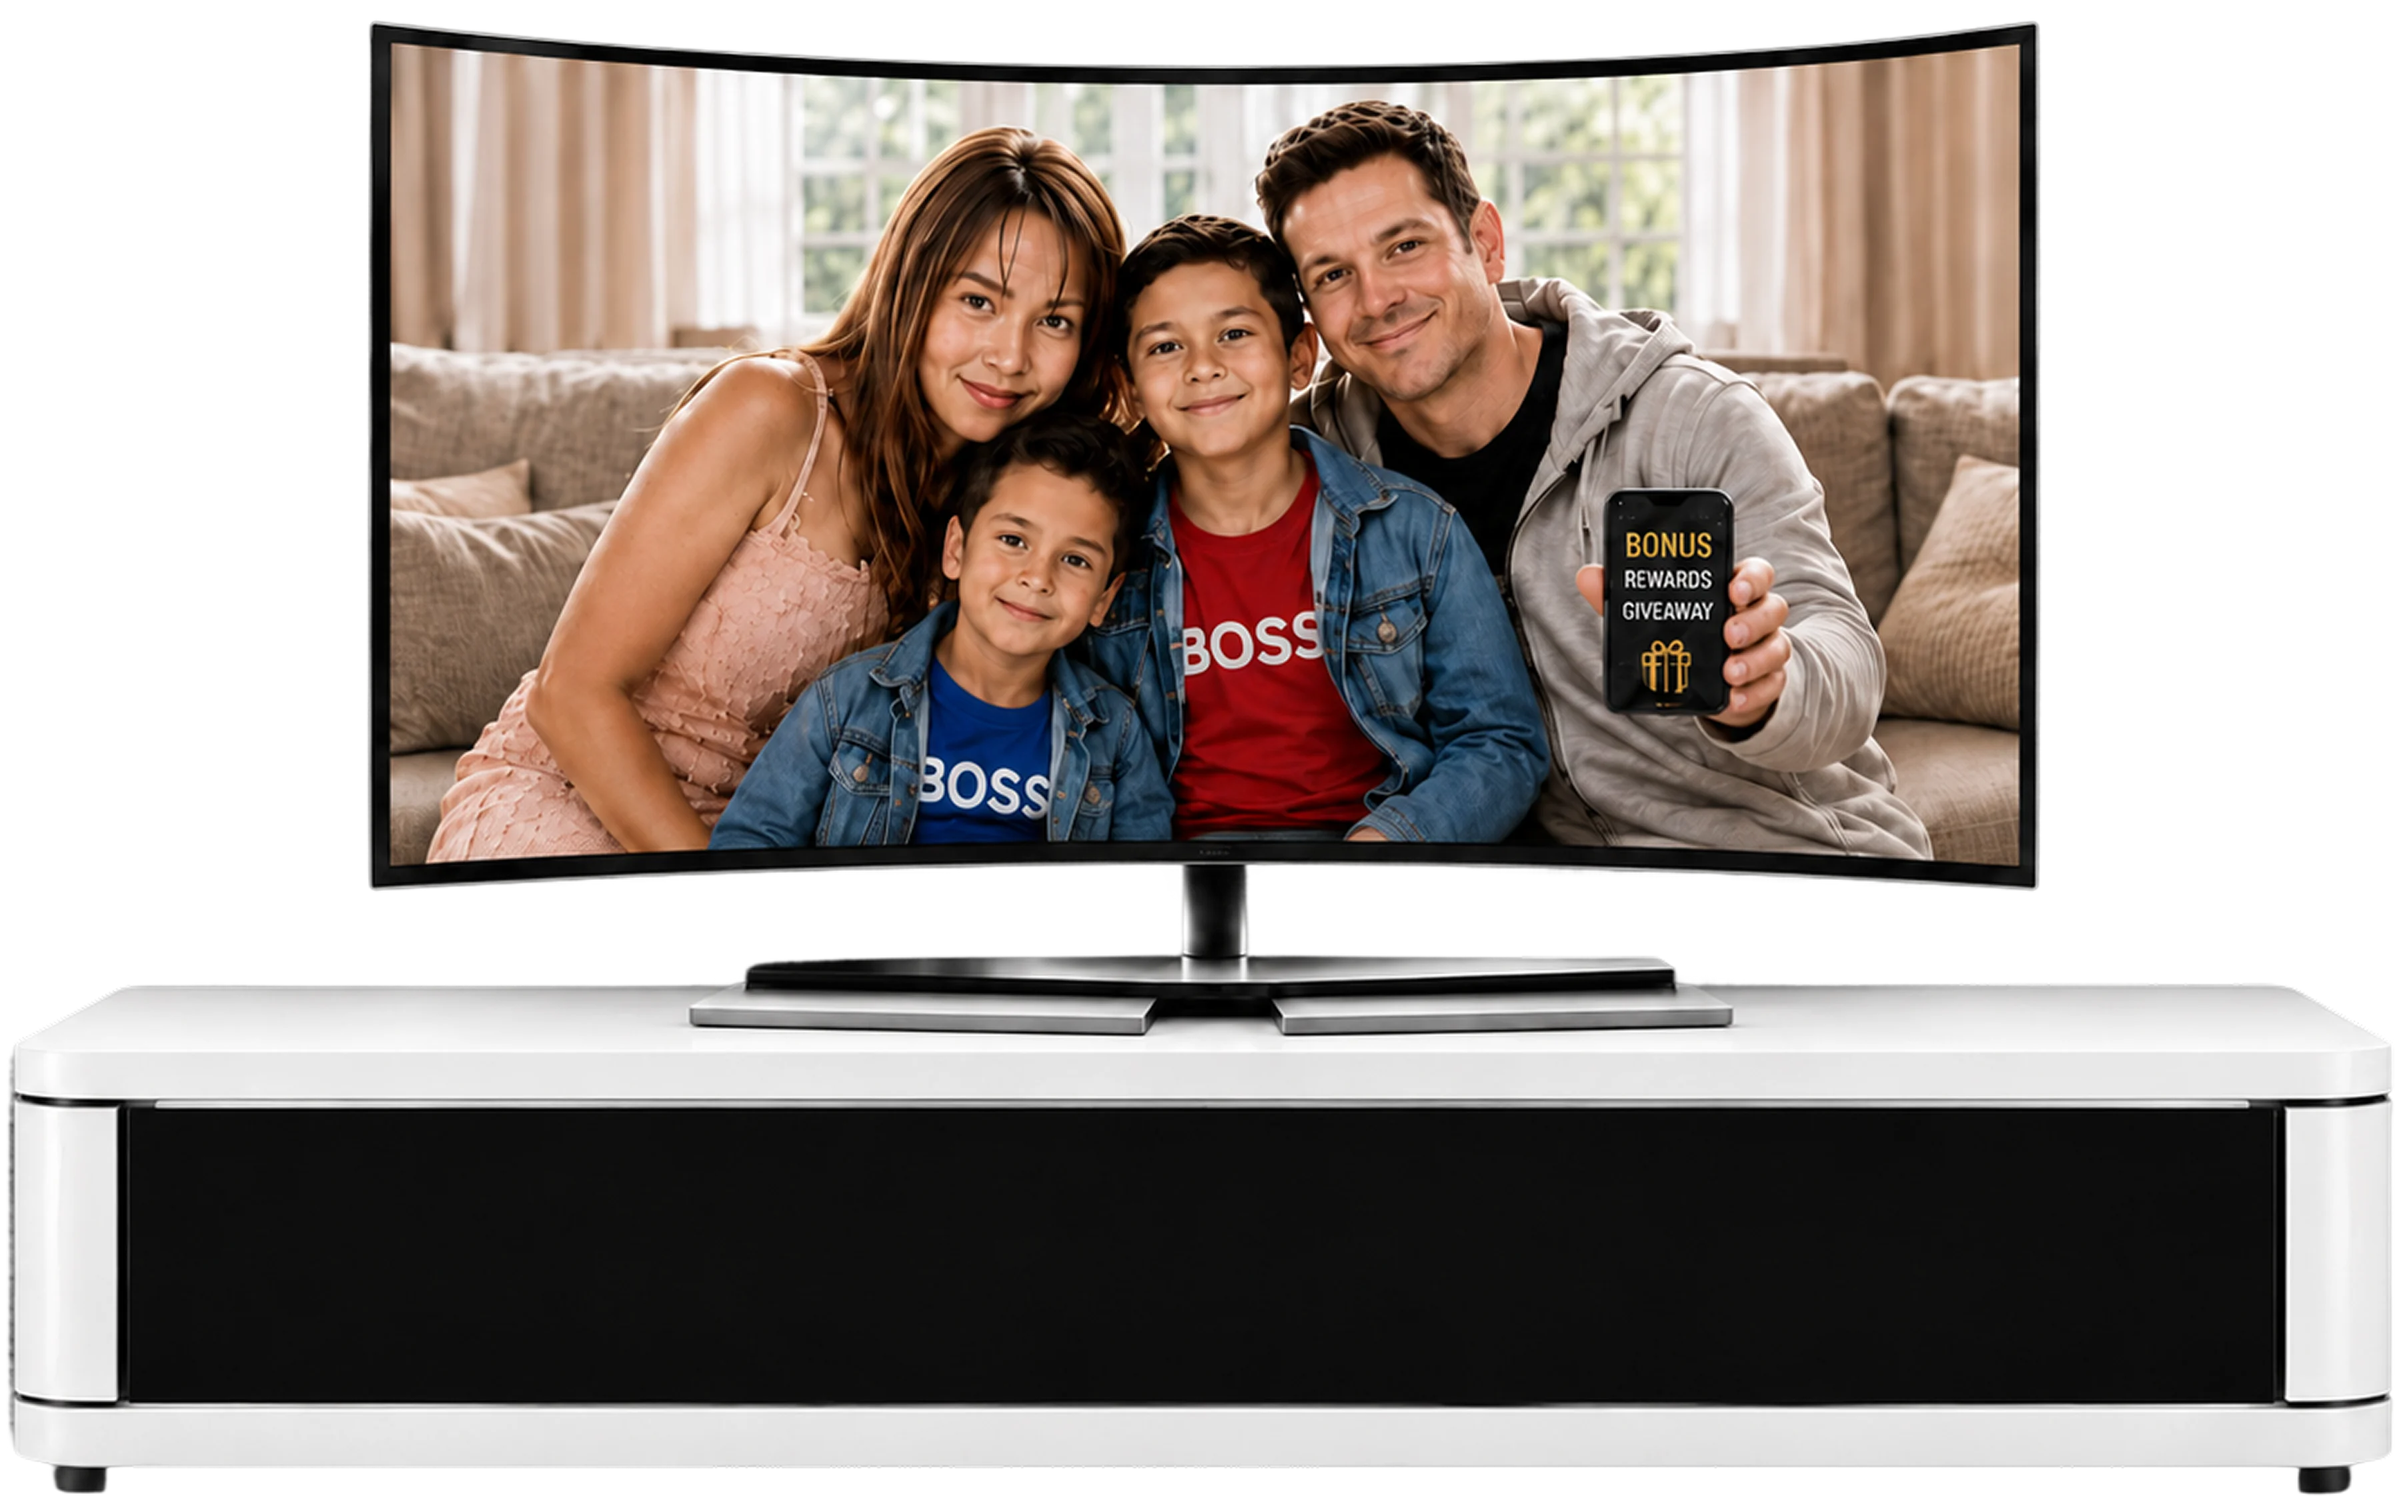
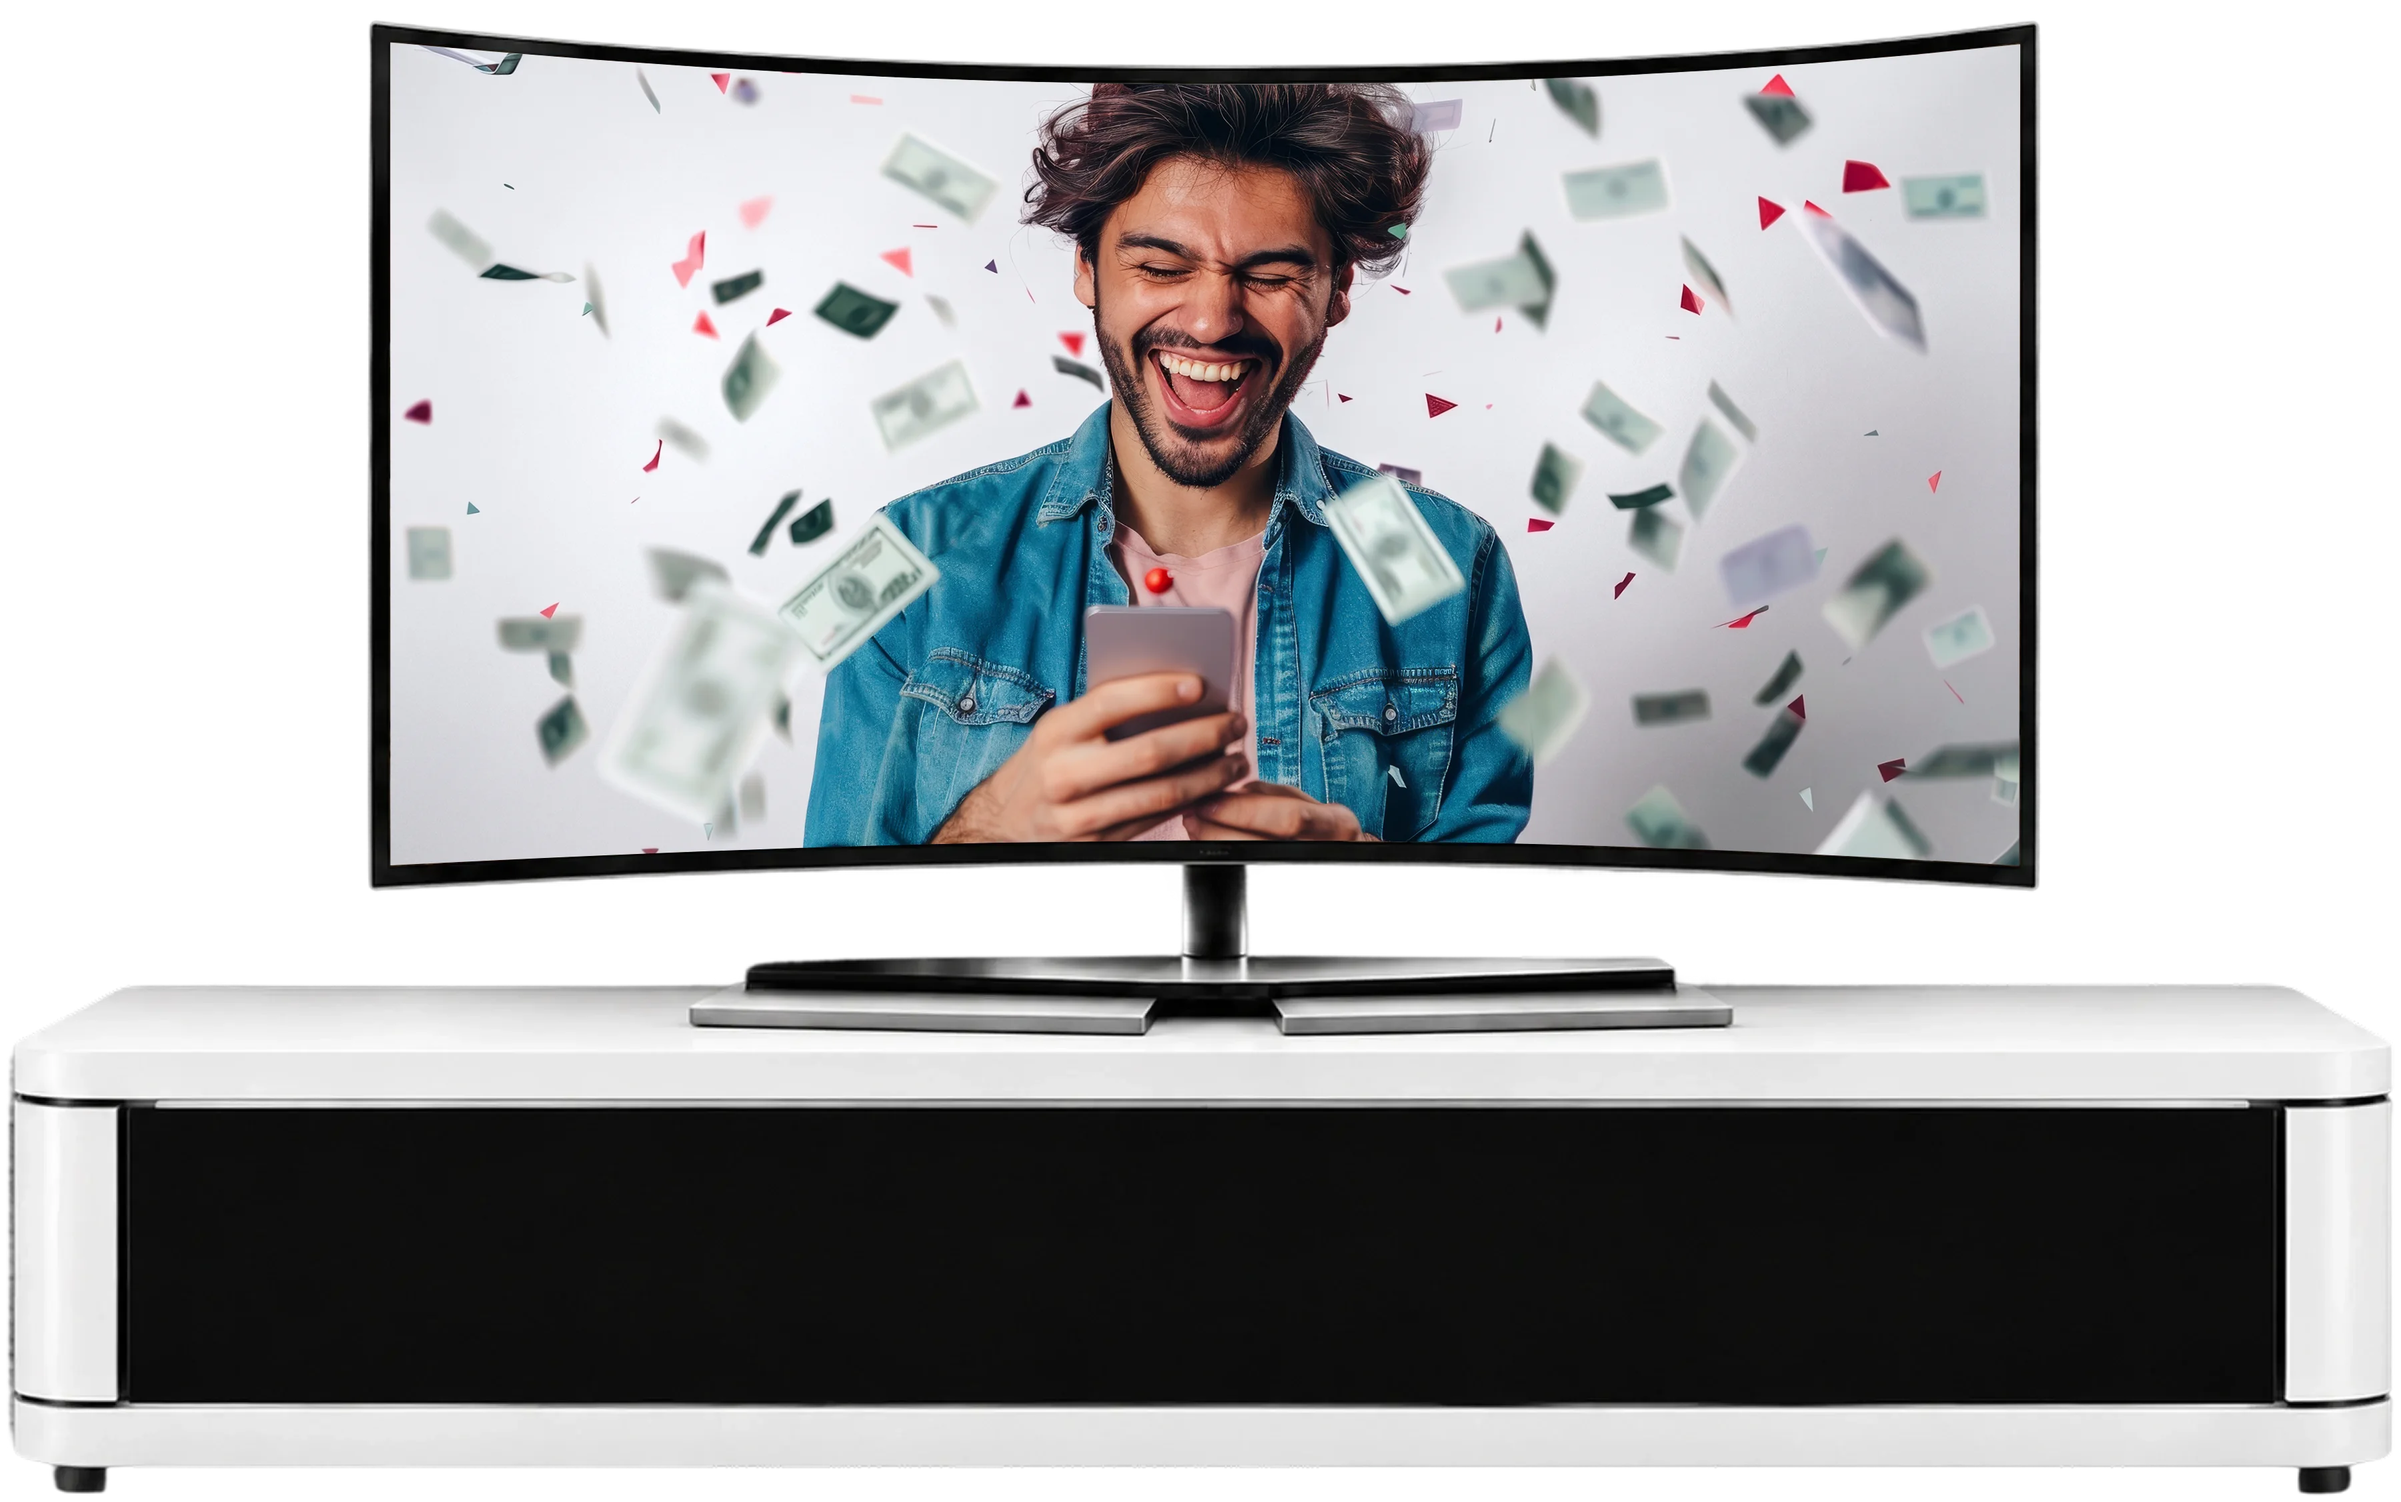
Update prizes text, live draw time

diff --git a/src/app/(home)/(routes)/giveaway-rules/page.tsx b/src/app/(home)/(routes)/giveaway-rules/page.tsx
@@ -25,9 +25,9 @@ const ELIGIBLE_STATES = 'Victoria, Queensland, Western Australia, Tasmania, and 
 
 const drawDetails = (pool: string): { label: string; value: ReactNode }[] => [
     { label: 'Promotion cycle opens', value: '11 September 2026' },
-    { label: 'Regular draws', value: 'Every Friday, or as announced on the website' },
-    { label: 'Entries close each Friday', value: '6:30 PM AEST' },
-    { label: 'Draw time each Friday', value: '8:00 PM AEST' },
+    { label: 'Regular draws', value: 'Every Sunday, or as announced on the website' },
+    { label: 'Entries close each Sunday', value: '6:30 PM AEST' },
+    { label: 'Draw time each Sunday', value: '8:00 PM AEST' },
     {
         label: 'Prize pool',
         value: (
@@ -157,7 +157,7 @@ const buildSections = (pricing: TierPricing): LegalSection[] => [
         )
     },
     {
-        heading: 'Promotion period & four Friday draws',
+        heading: 'Promotion period & four Sunday draws',
         body: (
             <>
                 <p>
@@ -166,11 +166,11 @@ const buildSections = (pricing: TierPricing): LegalSection[] => [
                     announced by SLR.
                 </p>
                 <p>
-                    4.2 Regular draws take place every Friday or as listed on the website announcement. For regular
-                    Friday draws, entries close at 6:30 PM AEST and the draw takes place at 8:00 PM AEST.
+                    4.2 Regular draws take place every Sunday or as listed on the website announcement. For regular
+                    Sunday draws, entries close at 6:30 PM AEST and the draw takes place at 8:00 PM AEST.
                 </p>
                 <p>
-                    4.3 Only valid Entries recorded before the closing time for the relevant Friday draw will be
+                    4.3 Only valid Entries recorded before the closing time for the relevant Sunday draw will be
                     included in that draw.
                 </p>
                 <p>
@@ -180,7 +180,7 @@ const buildSections = (pricing: TierPricing): LegalSection[] => [
                 </p>
                 <div className='mt-4 space-y-1 rounded-xl border border-white/10 bg-black/20 p-4'>
                     <Fact label='Cycle opens'>11 September 2026</Fact>
-                    <Fact label='Regular draws'>Every Friday, or as announced on the website</Fact>
+                    <Fact label='Regular draws'>Every Sunday, or as announced on the website</Fact>
                     <Fact label='Entries close'>6:30 PM AEST</Fact>
                     <Fact label='Draw time'>8:00 PM AEST</Fact>
                 </div>
@@ -274,8 +274,8 @@ const buildSections = (pricing: TierPricing): LegalSection[] => [
                     allocation except where a specific promotion expressly provides additional Entries.
                 </p>
                 <p>
-                    7.4 Only valid Entries recorded before 6:30 PM AEST on the relevant Friday will be included in that
-                    Friday&rsquo;s draw.
+                    7.4 Only valid Entries recorded before 6:30 PM AEST on the relevant Sunday will be included in that
+                    Sunday&rsquo;s draw.
                 </p>
             </>
         )
@@ -291,7 +291,7 @@ const buildSections = (pricing: TierPricing): LegalSection[] => [
                     and utilise cryptographic SHA-256 verification to ensure transparency and fairness.
                 </p>
                 <p>
-                    8.2 Each draw will be conducted at 8:00 PM AEST in Victoria, Australia, on the applicable Friday
+                    8.2 Each draw will be conducted at 8:00 PM AEST in Victoria, Australia, on the applicable Sunday
                     stated in clause 4.2.
                 </p>
                 <p>

diff --git a/src/app/(home)/(routes)/(membership)/_components/current-prizes-section.tsx b/src/app/(home)/(routes)/(membership)/_components/current-prizes-section.tsx
@@ -20,7 +20,7 @@ import { CurrentPrizesContent, type PrizeTierCard } from './current-prizes-conte
 const FALLBACK = {
     pool: '$7,380',
     stats: [
-        { value: '100 Members', label: 'Competing Capped' },
+        { value: '100 Members', label: 'Prize Pool Base' },
         { value: 'Up To 34 Prizes', label: 'Every Month' },
         { value: '9 In 10 Winning', label: 'Chance Per Year' }
     ],
@@ -38,7 +38,8 @@ const FALLBACK = {
     }
 };
 
-const unlockNote = (members: string) => `Unlocked at ${members} Members`;
+const monthlyUnlockNote = (members: string) => `Monthly Prize Unlocked at ${members} Members`;
+const bonusUnlockNote = (members: string) => `Bonus Prize Pool Unlocked at ${members} Members`;
 
 const perWeekAmount = (price: string) => price.replace('/week', '');
 
@@ -52,8 +53,8 @@ const CurrentPrizesSection = async () => {
     const poolAmount = parseAmount(poolHeadline);
 
     const membersCap = membersCapLabel(content?.stage_label) ?? FALLBACK.membersCap;
-    const monthlyNote = unlockNote(membersCount(content?.stage_label) ?? FALLBACK.membersCount);
-    const bonusNote = unlockNote(GRAND_BONUS.membersCount);
+    const monthlyNote = monthlyUnlockNote(membersCount(content?.stage_label) ?? FALLBACK.membersCount);
+    const bonusNote = bonusUnlockNote(GRAND_BONUS.membersCount);
 
     const redMin = tiers ? minPriceCents(tiers.red) : null;
     const blueMin = tiers ? minPriceCents(tiers.blue) : null;

diff --git a/src/app/(home)/(routes)/terms/page.tsx b/src/app/(home)/(routes)/terms/page.tsx
@@ -540,7 +540,7 @@ const buildSections = (pricing: TierPricing, pool: string, membersCap: string): 
             <>
                 <p>
                     18.1 Unless a Promotion Schedule states otherwise, SLR intends to conduct regular weekly Promotional
-                    Draws every Friday at approximately 7:30 PM AEST/AEDT, as applicable in Victoria.
+                    Draws every Sunday at approximately 7:30 PM AEST/AEDT, as applicable in Victoria.
                 </p>
                 <p>
                     18.2 The applicable entry closing time will be specified on the SLR website or in the relevant
@@ -557,7 +557,7 @@ const buildSections = (pricing: TierPricing, pool: string, membersCap: string): 
                     <Link href='/giveaway-rules' className='text-[#FFDC75] hover:underline'>
                         Competition Rules
                     </Link>{' '}
-                    for the current cycle set entry close at 6:30 PM AEST and the draw at 8:00 PM AEST each Friday.
+                    for the current cycle set entry close at 6:30 PM AEST and the draw at 8:00 PM AEST each Sunday.
                 </p>
             </>
         )

diff --git a/src/app/(home)/(routes)/(membership)/_components/draw-countdown-section.tsx b/src/app/(home)/(routes)/(membership)/_components/draw-countdown-section.tsx
@@ -2,19 +2,19 @@
 
 import { useEffect, useState } from 'react';
 
-// Draws run Friday 8:00pm AEST. AEST is treated as a fixed UTC+10 offset, so the
+// Draws run SUNDAY 8:00pm AEST. AEST is treated as a fixed UTC+10 offset, so the
 // countdown does not shift when the browser sits in another timezone.
 const AEST_OFFSET_MS = 10 * 60 * 60 * 1000;
 // Competition Rules: cycle opens 11 Sep 2026, first draw 18 Sep 2026 at 8:00 PM AEST.
-const FIRST_DRAW_MS = Date.UTC(2026, 8, 18, 10, 0, 0);
-const FRIDAY = 5;
+const FIRST_DRAW_MS = Date.UTC(2026, 8, 20, 10, 0, 0);
+const SUNDAY = 0;
 const DRAW_HOUR_AEST = 20;
 
 function nextDrawMs(now: number): number {
     if (now < FIRST_DRAW_MS) return FIRST_DRAW_MS;
 
     const aestNow = new Date(now + AEST_OFFSET_MS);
-    let dayOffset = FRIDAY - aestNow.getUTCDay();
+    let dayOffset = SUNDAY - aestNow.getUTCDay();
     if (dayOffset < 0 || (dayOffset === 0 && aestNow.getUTCHours() >= DRAW_HOUR_AEST)) {
         dayOffset += 7;
     }

diff --git a/src/app/(home)/(routes)/(membership)/_components/how-it-works-section.tsx b/src/app/(home)/(routes)/(membership)/_components/how-it-works-section.tsx
@@ -47,10 +47,10 @@ const buildSteps = (redFrom: number, blueFrom: number, redWeekly: string): Step[
         badge: 'Step 02',
         icon: '/icons/ic-prize-circle.png',
         title: 'Weekly Prize Draws',
-        kicker: 'Live Draws Every Friday Night',
+        kicker: 'Live Draws Every Sunday Night',
         body: (
             <>
-                Get auto-entered into <Strong>up to 10 draws every Friday</Strong>. Spin monthly to win direct discounts
+                Get auto-entered into <Strong>up to 10 draws every Sunday</Strong>. Spin monthly to win direct discounts
                 on your subscription bill &amp; lower your cost.
             </>
         ),

diff --git a/src/components/common/footer.tsx b/src/components/common/footer.tsx
@@ -39,7 +39,7 @@ const socials = [
     {
         icon: '/icons/ic-facebook.png',
         label: 'Facebook',
-        href: 'https://www.facebook.com/share/1CcxZ86yHn/?mibextid=wwXIfr'
+        href: 'https://www.facebook.com/slraus'
     },
     { icon: '/icons/ic-instagram.png', label: 'Instagram', href: 'https://www.instagram.com/smartliferewards' },
     { icon: '/icons/ic-tiktok.png', label: 'TikTok', href: 'https://www.tiktok.com/@smartlife.rewards' }

diff --git a/src/lib/prize-content.ts b/src/lib/prize-content.ts
@@ -84,7 +84,7 @@ export function poolLabel(headline: string | null | undefined, fallback: string)
 export function membersCapLabel(stageLabel: string | null | undefined): string | null {
     const count = membersCount(stageLabel);
 
-    return count ? `${count} Members Capped` : null;
+    return count ? `Prizes Based on ${count} Members` : null;
 }
 
 /** Cheapest sub-tier price in cents -> "$2.50/week" over the 28-day cycle. */

diff --git a/src/lib/seo/structured-data.ts b/src/lib/seo/structured-data.ts
@@ -4,7 +4,7 @@ const siteUrl = process.env.NEXT_PUBLIC_SITE_URL ?? 'https://smartliferewards.co
 const siteName = 'Smart Life Rewards';
 
 const socialMediaUrls = [
-    'https://www.facebook.com/share/1CcxZ86yHn/?mibextid=wwXIfr',
+    'https://www.facebook.com/slraus',
     'https://www.instagram.com/smartliferewards',
     'https://www.tiktok.com/@smartlife.rewards'
 ];

diff --git a/src/app/(home)/(routes)/(membership)/_components/hero-section.tsx b/src/app/(home)/(routes)/(membership)/_components/hero-section.tsx
@@ -9,7 +9,7 @@ const FALLBACK_TICKER = [
     '$2,100 PRIZE POOL',
     'ONLY 100 MEMBERS COMPETING',
     'ODDS 9 IN 10 P/A',
-    'UP TO 10 PRIZE DRAWS EVERY FRIDAY'
+    'UP TO 10 PRIZE DRAWS EVERY SUNDAY'
 ];
 
 // The headline pair lands first, then the strapline, then everything below it.
